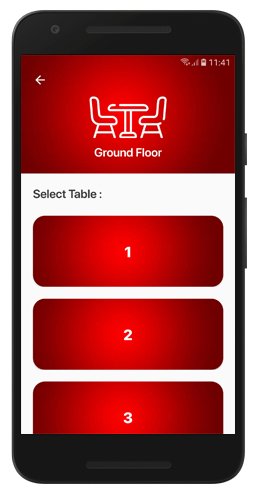
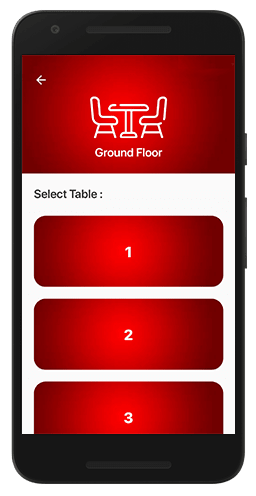
hart imgs update

diff --git a/success-stories/hart.html b/success-stories/hart.html
@@ -1,179 +1,196 @@
 <!--Developed By
           -Heetarthi Kamdar (CEO - Adroit Alliance)-->
-          
+
 <!doctype html>
 <html lang="en">
-    
+
 <head>
-  <meta charset="utf-8" />
-  <meta http-equiv="X-UA-Compatible" content="IE=edge">
-  <title>Adroit Alliance | Hart Lounge Restaurant</title>
-  <link rel="shortcut icon" href="../img/icon.ico">
-  <meta name="viewport" content="width=device-width, initial-scale=1">
-  <!-- Bootstrap CSS -->
-  <link rel="stylesheet" href="../css/bootstrap.min.css">
-  <!-- Owl carousel -->
-  <link rel="stylesheet" href="../css/owl.carousel.min.css">
-  <!-- Main css -->
-  <link href="../css/hart.css" rel="stylesheet">
-  <link rel="stylesheet" href="https://demo.voidcoders.com/htmldemo/fitgear/main-files/assets/css/animate.css">
-  <link rel="stylesheet" href="https://use.fontawesome.com/releases/v5.6.3/css/all.css">
-  <link rel="stylesheet" href="https://cdnjs.cloudflare.com/ajax/libs/font-awesome/4.7.0/css/font-awesome.min.css">
+    <meta charset="utf-8" />
+    <meta http-equiv="X-UA-Compatible" content="IE=edge">
+    <title>Adroit Alliance | Hart Lounge Restaurant</title>
+    <link rel="shortcut icon" href="../img/icon.ico">
+    <meta name="viewport" content="width=device-width, initial-scale=1">
+    <!-- Bootstrap CSS -->
+    <link rel="stylesheet" href="../css/bootstrap.min.css">
+    <!-- Owl carousel -->
+    <link rel="stylesheet" href="../css/owl.carousel.min.css">
+    <!-- Main css -->
+    <link href="../css/hart.css" rel="stylesheet">
+    <link rel="stylesheet" href="https://demo.voidcoders.com/htmldemo/fitgear/main-files/assets/css/animate.css">
+    <link rel="stylesheet" href="https://use.fontawesome.com/releases/v5.6.3/css/all.css">
+    <link rel="stylesheet" href="https://cdnjs.cloudflare.com/ajax/libs/font-awesome/4.7.0/css/font-awesome.min.css">
 
 </head>
+
 <body>
 
-  <div class="logo">
-    <a href="#Hart"><img src="../img/hart/logo.png"></a>
-  </div>
-  <div class="menu-collapsed">
-    <div class="bar"></div>
-      <nav>
-        <ul><br>
-          <a href="../index.html"><span>Home</span></a>
-            <a href="../index.html#about-us">Who Are We?</a>
-            <a href="../index.html#success-stories">Success Stories</a>
-            <a href="../index.html#services">Our Solutions</a>
-            <a href="#footer">Contact Us</a>
-          </ul>
-        </nav>
-      </div>
-          
-<!--Information-->
-
-<div id="Hart" class="information3">
-  <h2><a href="abbiocco.html"><z class="left"></z></a></h2>
-  <div class="information">
-    <h2 style="color:rgb(0, 0, 0);"><b>The Hart Lounge Restaurant</b></h2>
-    <h4 style="color:#ff0000" class="tag">The Powerful Restaurant KOT System</h4> 
-  </div>
-  <h2><a href="gnw.html"><z class="right"></z></a></h2>
-  </div>
-  <br>
-
-<div class="carousel">
-  <div class="carousel__control">
-  </div>
-  <div class="carousel__stage">
-    <div class="spinner spinner--left">
-      <div class="spinner__face js-active" data-bg="#E3E3E3">
-        <div class="content" data-type="foodcamp">
-          <div class="content__left">
-          </div>
-          <div class="content__right">
-            <div class="content__main">
-                <h1 style="color:black">The Problem</h1><br>
-                <p style="color:black">You might have seen the rush in most restaurants at peak hours right? The old pen-and-paper
-                   style of placing orders was not quiet working out well for the HART Lounge restaurant in Vellore city. The waiters 
-                   would forget to add-on the food items of a table in the final bill due to the chaos of the rush hour.
-                               Well ofcourse it was a treat for the customers, but definitely not for the restaurant owners...<br><br>
-                               That's when we came into picture!</p>
-            </div>    
-          </div>
-        </div>
-      </div>
-      <div class="spinner__face" data-bg="#E3E3E3">
-        <div class="content" data-type="queue">
-          <div class="content__left">                     
-          </div>
-          <div class="content__right">
-            <div class="content__main"><h1 style="color:black">Our Solution</h1>
-              <p style="color:black"><br> 
-               Our restaurant KOT system aims at placing orders from individual table through the restaurant's personal mobile
-                application which is inter-linked for the restaurant staff.<br>
-                The app is interfaced in such a way that the waiters have absolutely no problems in taking orders. <br>
-                At the time of generating the invoice for a table, the cashier has to simply select the table number on the app 
-                and each order made from that table is displayed on screen.</p>
-              </div>
-            </div>
-          </div>
-        </div>         
-      </div>
+    <div class="logo">
+        <a href="#Hart"><img src="../img/hart/logo.png"></a>
     </div>
-</div>
-    
-<section id="features">
-  <div class="features-inner">
-    <div class="features-image"><img src="../img/hart/phone1.gif"/></div>
-    <ul class="features-list list-1">
-      <li class="features-item" data-src="../img/hart/phone1.png"><br>
-        <h3 class="features-item-header" style="color:#ff0000">Feature 1</h3>
-        <p class="features-item-text">A Faster, Smarter and Efficient way to take orders in style.</p>
-      </li>
-      <li class="features-item" data-src=../img/hart/phone2.png>
-        <h3 class="features-item-header" style="color:#ff0000">Feature 2</h3>
-        <p class="features-item-text">Maintain the whole restaurant at your fingertips.</p>
-      </li>
-      <li class="features-item" data-src=../img/hart/phone3.png>
-        <h3 class="features-item-header" style="color:#ff0000">Feature 3</h3>
-        <p class="features-item-text">Select the table to take the order.</p>
-      </li>
-    </ul>
-    <ul class="features-list list-2">
-      <li class="features-item" data-src=../img/hart/phone4.png>
-        <h3 class="features-item-header" style="color:#ff0000">Feature 4</h3>
-        <p class="features-item-text">Place the orders in a speedy manner.</p>
-      </li>
-      <li class="features-item" data-src=../img/hart/phone5.png>
-        <h3 class="features-item-header" style="color:#ff0000">Feature 5</h3>
-        <p class="features-item-text">Generate the bill without any flaw.</p>
-      </li>
-      <li class="features-item" data-src=../img/hart/phone6.png>
-        <h3 class="features-item-header" style="color:#ff0000">Feature 6</h3>
-        <p class="features-item-text">Customize your food price and add/delete dishes anytime.</p>
-      </li>
-    </ul>
-  </div>
-</section>
+    <div class="menu-collapsed">
+        <div class="bar"></div>
+        <nav>
+            <ul><br>
+                <a href="../index.html"><span>Home</span></a>
+                <a href="../index.html#about-us">Who Are We?</a>
+                <a href="../index.html#success-stories">Success Stories</a>
+                <a href="../index.html#services">Our Solutions</a>
+                <a href="#footer">Contact Us</a>
+            </ul>
+        </nav>
+    </div>
 
-<!--Footer-->
-  <div class="hundred"><br><br><br><br>
+    <!--Information-->
 
-    <img id="footer" class="foot" src="../img/contact.gif" alt=""><br><br>
+    <div id="Hart" class="information3">
+        <h2>
+            <a href="abbiocco.html">
+                <z class="left"></z>
+            </a>
+        </h2>
+        <div class="information">
+            <h2 style="color:rgb(0, 0, 0);"><b>The Hart Lounge Restaurant</b></h2>
+            <h4 style="color:#ff0000" class="tag">The Powerful Restaurant KOT System</h4>
+        </div>
+        <h2>
+            <a href="gnw.html">
+                <z class="right"></z>
+            </a>
+        </h2>
+    </div>
+    <br>
 
-    <div class="social-container">
-      <div class="social-icons">
-        <li><a href="https://www.instagram.com/adroitalliance/" target="_blank"><i class="fa fa-instagram"></i></a></li>
-        <li><a href="https://www.facebook.com/adroitalliance/" target="_blank"><j class="fa fa-facebook"></j></a></li>
-        <li><a href="https://twitter.com/AllianceAdroit" target="_blank"><i class="fa fa-twitter"></i></a></li>         
-        <li><a href="https://www.linkedin.com/company/adroit-alliance/about/" target="_blank"><i class="fa fa-linkedin"></i></a></li>
-        <li><a href="https://www.tumblr.com/blog/adroitalliance" target="_blank"><k class="fa fa-tumblr"></k></a></li>
-      </div>
-      <h6 >
-          <a style="color:white" href="mailto:hola@adroitalliance.in?Subject=Enquiry">hola@adroitalliance.in</a><br><br>
-          
-          <img id="footer" class="foot" src="../img/contact.png" alt="">
+    <div class="carousel">
+        <div class="carousel__control">
+        </div>
+        <div class="carousel__stage">
+            <div class="spinner spinner--left">
+                <div class="spinner__face js-active" data-bg="#E3E3E3">
+                    <div class="content" data-type="foodcamp">
+                        <div class="content__left">
+                        </div>
+                        <div class="content__right">
+                            <div class="content__main">
+                                <h1 style="color:black">The Problem</h1><br>
+                                <p style="color:black">You might have seen the rush in most restaurants at peak hours right? The old pen-and-paper style of placing orders was not quiet working out well for the HART Lounge restaurant in Vellore city. The waiters would forget
+                                    to add-on the food items of a table in the final bill due to the chaos of the rush hour. Well ofcourse it was a treat for the customers, but definitely not for the restaurant owners...<br><br> That's when we came into
+                                    picture!
+                                </p>
+                            </div>
+                        </div>
+                    </div>
+                </div>
+                <div class="spinner__face" data-bg="#E3E3E3">
+                    <div class="content" data-type="queue">
+                        <div class="content__left">
+                        </div>
+                        <div class="content__right">
+                            <div class="content__main">
+                                <h1 style="color:black">Our Solution</h1>
+                                <p style="color:black"><br> Our restaurant KOT system aims at placing orders from individual table through the restaurant's personal mobile application which is inter-linked for the restaurant staff.<br> The app is interfaced in such a way that
+                                    the waiters have absolutely no problems in taking orders. <br> At the time of generating the invoice for a table, the cashier has to simply select the table number on the app and each order made from that table is displayed
+                                    on screen.</p>
+                            </div>
+                        </div>
+                    </div>
+                </div>
+            </div>
+        </div>
+    </div>
 
-        </h6>
+    <section id="features">
+        <div class="features-inner">
+            <div class="features-image"><img src="../img/hart/phone.png" /></div>
+            <ul class="features-list list-1">
+                <li class="features-item" data-src="../img/hart/phone1.png"><br>
+                    <h3 class="features-item-header" style="color:#ff0000">Feature 1</h3>
+                    <p class="features-item-text">A Faster, Smarter and Efficient way to take orders in style.</p>
+                </li>
+                <li class="features-item" data-src=../img/hart/phone2.png>
+                    <h3 class="features-item-header" style="color:#ff0000">Feature 2</h3>
+                    <p class="features-item-text">Maintain the whole restaurant at your fingertips.</p>
+                </li>
+                <li class="features-item" data-src=../img/hart/phone3.png>
+                    <h3 class="features-item-header" style="color:#ff0000">Feature 3</h3>
+                    <p class="features-item-text">Select the table to take the order.</p>
+                </li>
+            </ul>
+            <ul class="features-list list-2">
+                <li class="features-item" data-src=../img/hart/phone4.png>
+                    <h3 class="features-item-header" style="color:#ff0000">Feature 4</h3>
+                    <p class="features-item-text">Place the orders in a speedy manner.</p>
+                </li>
+                <li class="features-item" data-src=../img/hart/phone5.png>
+                    <h3 class="features-item-header" style="color:#ff0000">Feature 5</h3>
+                    <p class="features-item-text">Generate the bill without any flaw.</p>
+                </li>
+                <li class="features-item" data-src=../img/hart/phone6.png>
+                    <h3 class="features-item-header" style="color:#ff0000">Feature 6</h3>
+                    <p class="features-item-text">Customize your food price and add/delete dishes anytime.</p>
+                </li>
+            </ul>
+        </div>
+    </section>
 
-        <footer class="text-center">
-            <!-- Copyright removal is not prohibited! -->
-            <a style="font-family:Helvica"><b style="font-size:13px;color:white"><br><br><br>COPYRIGHT ©
+    <!--Footer-->
+    <div class="hundred"><br><br><br><br>
+
+        <img id="footer" class="foot" src="../img/contact.gif" alt=""><br><br>
+
+        <div class="social-container">
+            <div class="social-icons">
+                <li><a href="https://www.instagram.com/adroitalliance/" target="_blank"><i class="fa fa-instagram"></i></a></li>
+                <li>
+                    <a href="https://www.facebook.com/adroitalliance/" target="_blank">
+                        <j class="fa fa-facebook"></j>
+                    </a>
+                </li>
+                <li><a href="https://twitter.com/AllianceAdroit" target="_blank"><i class="fa fa-twitter"></i></a></li>
+                <li><a href="https://www.linkedin.com/company/adroit-alliance/about/" target="_blank"><i class="fa fa-linkedin"></i></a></li>
+                <li>
+                    <a href="https://www.tumblr.com/blog/adroitalliance" target="_blank">
+                        <k class="fa fa-tumblr"></k>
+                    </a>
+                </li>
+            </div>
+            <h6>
+                <a style="color:white" href="mailto:hola@adroitalliance.in?Subject=Enquiry">hola@adroitalliance.in</a><br><br>
+
+                <img id="footer" class="foot" src="../img/contact.png" alt="">
+
+            </h6>
+
+            <footer class="text-center">
+                <!-- Copyright removal is not prohibited! -->
+                <a style="font-family:Helvica"><b style="font-size:13px;color:white"><br><br><br>COPYRIGHT ©
     
                 <script>document.write(new Date().getFullYear());</script>. ALL RIGHTS RESERVED.<br></b></a>
-            <a href="../terms.html" target="_blank" class="term" style="font-family:Helvica"><b
+                <a href="../terms.html" target="_blank" class="term" style="font-family:Helvica"><b
                 style="font-size:13px;color:white">DISCLAIMER</b></a>
-          </footer>
+            </footer>
+        </div>
     </div>
-  </div>
-  
-<script src="../js/jquery-3.2.1.min.js"></script>
-<script src="../js/bootstrap.bundle.min.js"></script>
-<script src="../js/owl.carousel.min.js"></script>
-<script src="../js/main.js"></script>
-<script src="../js/success-stories.js"></script>
 
-<!--Start of Tawk.to Script-->
-<script type="text/javascript">
-  var Tawk_API=Tawk_API||{}, Tawk_LoadStart=new Date();
-  (function(){
-  var s1=document.createElement("script"),s0=document.getElementsByTagName("script")[0];
-  s1.async=true;
-  s1.src='https://embed.tawk.to/5cd52b50d07d7e0c6392dfbb/default';
-  s1.charset='UTF-8';
-  s1.setAttribute('crossorigin','*');
-  s0.parentNode.insertBefore(s1,s0);
-  })();
-</script>
+    <script src="../js/jquery-3.2.1.min.js"></script>
+    <script src="../js/bootstrap.bundle.min.js"></script>
+    <script src="../js/owl.carousel.min.js"></script>
+    <script src="../js/main.js"></script>
+    <script src="../js/success-stories.js"></script>
+
+    <!--Start of Tawk.to Script-->
+    <script type="text/javascript">
+        var Tawk_API = Tawk_API || {},
+            Tawk_LoadStart = new Date();
+        (function() {
+            var s1 = document.createElement("script"),
+                s0 = document.getElementsByTagName("script")[0];
+            s1.async = true;
+            s1.src = 'https://embed.tawk.to/5cd52b50d07d7e0c6392dfbb/default';
+            s1.charset = 'UTF-8';
+            s1.setAttribute('crossorigin', '*');
+            s0.parentNode.insertBefore(s1, s0);
+        })();
+    </script>
 </body>
+
 </html>
